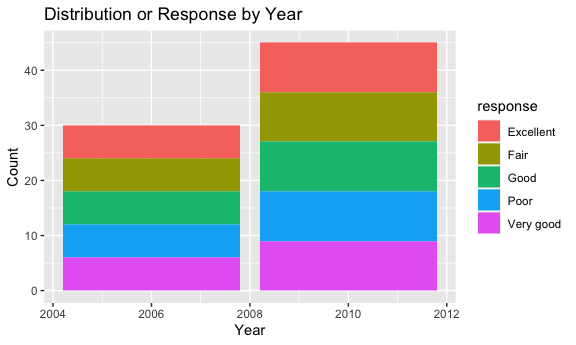
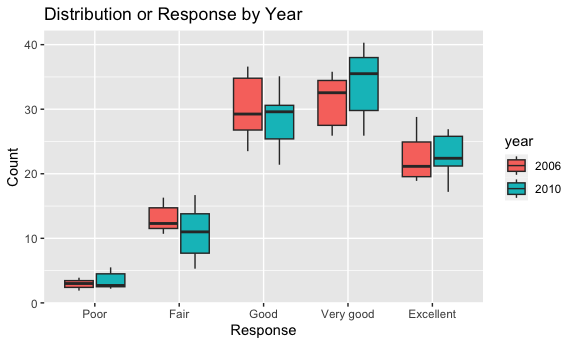
change p2

diff --git a/p8105_hw3_lz2949.md b/p8105_hw3_lz2949.md
@@ -145,10 +145,13 @@ Data cleaning
 ``` r
 brfss_df = 
   brfss_smart2010 |>
+  rename("state_name" = "Locationabbr") |>
+  rename("county_name" = "Locationdesc") |>
   janitor::clean_names() |>
   filter(topic == "Overall Health") |>
   filter(response == "Excellent" | response =="Very good" |response =="Good" |response =="Fair" |response =="Poor") 
 
+# order responses from poor to excellent
 order_c = c("Poor", "Fair", "Good", "Very good", "Excellent")
 ordered_brfss = brfss_df[order(factor(brfss_df$response, levels = order_c)),]
 ```
@@ -159,22 +162,22 @@ In 2002/2010, which states were observed at 7 or more locations?
 # year 2002
 states_two = ordered_brfss |>
   filter(year == "2002") |>
-  group_by(locationabbr) |>
-  summarize(unique_locations = n_distinct(locationdesc)) 
+  group_by(state_name) |>
+  summarize(unique_locations = n_distinct(county_name)) 
 states_two = states_two |>
   filter(unique_locations >= 7)
 
 # year 2010
 states_ten = ordered_brfss |>
   filter(year == "2010") |>
-  group_by(locationabbr) |>
-  summarize(unique_locations = n_distinct(locationdesc)) 
+  group_by(state_name) |>
+  summarize(unique_locations = n_distinct(county_name)) 
 states_ten = states_ten |>
   filter(unique_locations >= 7)
 ```
 
-Comments: In 2002, there are 6 states observed at 7 or more locations;
-in 2010, the number is 14.
+Comments: In 2002, there are 6 states observed at 7 or more locations,
+they are ; in 2010, the number is 14, they are .
 
 Construct a dataset that is limited to Excellent responses and contains,
 year, state, and a variable averages the data_value across locations
@@ -183,14 +186,14 @@ within a state. Make a spaghetti plot.
 ``` r
 exc_df = ordered_brfss |>
   filter(response == "Excellent") |>
-  group_by(locationabbr, year) |>
+  group_by(state_name, year) |>
   mutate(ave_data = mean(data_value)) |>
-  select(year, locationabbr, ave_data) 
+  select(year, state_name, ave_data) 
 
 ggplot(exc_df, aes(x = year, 
                   y = ave_data,
-                  group = locationabbr, 
-                  color = locationabbr)) +
+                  group = state_name, 
+                  color = state_name)) +
   geom_line() +
   labs(
     title = "Average Data Value Over Time by State (Excellent Responses)",
@@ -202,32 +205,31 @@ ggplot(exc_df, aes(x = year,
     ## Warning: Removed 65 rows containing missing values (`geom_line()`).
 
 <img src="p8105_hw3_lz2949_files/figure-gfm/unnamed-chunk-10-1.png" width="90%" />
-Comments:
+Comments: drop the legend, general trend
 
 Make a two-panel plot showing, for 2006/2010, distribution of data_value
 for responses (poor to excellent) among locations in NY state.
 
 ``` r
 ny_df = ordered_brfss |>
-  filter(locationabbr == "NY", year %in% c("2006", "2010")) 
+  filter(state_name == "NY", year %in% c(2006, 2010)) 
 
-ggplot(ny_df, aes(x = year, fill = response)) + geom_bar() +
+ny_df$year = as.character(ny_df$year)
+ggplot(ny_df, aes(x = fct_inorder(response), y = data_value, fill = year)) + 
+  geom_boxplot() +
   labs(
     title = "Distribution or Response by Year", 
-    x = "Year", 
+    x = "Response", 
     y = "Count"
   )
 ```
 
 <img src="p8105_hw3_lz2949_files/figure-gfm/unnamed-chunk-11-1.png" width="90%" />
-
-``` r
-# among locations??
-```
-
 Comments: In 2010, more responses are collected. In 2010, there are 45
 responses, and in 2006, the number is 30. By looking at the plot, poor
-to excellent responses are evenly distributed among all responses.
+has the least data value and very good has the highest data value; for
+example, in year 2006, “Poor” has a median of 3, while “Very good” has a
+median of 32.55.
 
 ## Problem 3
 
